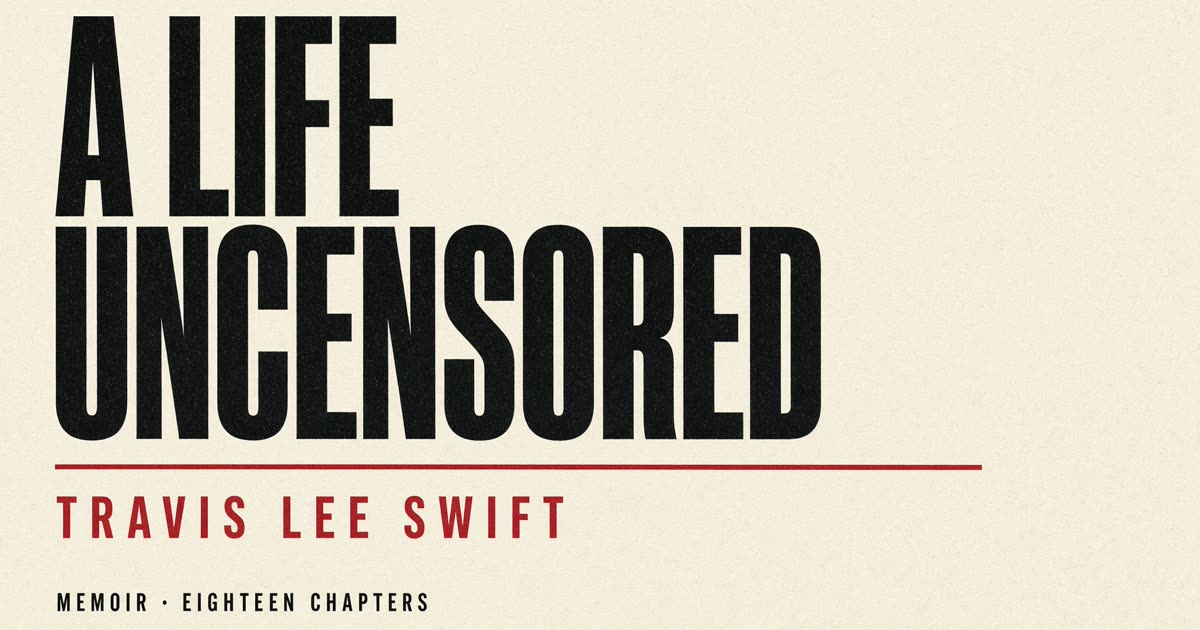
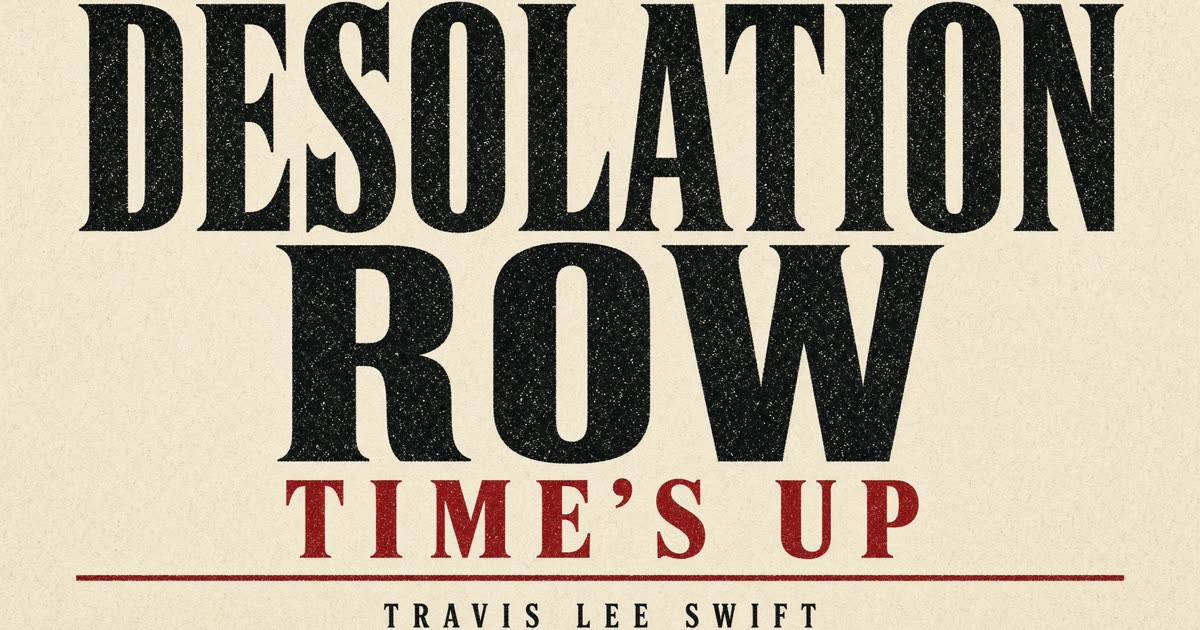
Restore paper name: Desolation Row — Time's Up

diff --git a/src/content/edition.ts b/src/content/edition.ts
@@ -1,11 +1,12 @@
 export const EDITION = {
-  name: "A Life Uncensored",
-  masthead: "A Life Uncensored",
-  subtitle: "The Record",
+  name: "Desolation Row",
+  masthead: "Desolation Row",
+  subtitle: "Time's Up",
+  bookTitle: "A Life Uncensored",
   genre: "Memoir",
   author: "Travis Lee Swift",
   xHandle: "TravisSwif21600",
-  tagline: "A Life Uncensored. Travis Lee Swift. The record is now in his own hands.",
+  tagline: "Desolation Row — Time's Up. Travis Lee Swift.",
   priceLabel: "£7.99",
   pricePence: 799,
   currency: "GBP",
@@ -20,14 +21,14 @@ export const EDITION = {
     note: "Travis Lee Swift pledges 10% of this edition's price to Macmillan Cancer Support. This is not an official Macmillan publication.",
   },
   blurb:
-    "A Life Uncensored by Travis Lee Swift. Memoir. Eighteen chapters, open to read and listen. No paywall until Travis says so.",
+    "Desolation Row — Time's Up by Travis Lee Swift. The book inside is A Life Uncensored. Eighteen chapters, open to read and listen until Travis says so.",
   backPage: [
-    "This is A Life Uncensored.",
-    "Five years clean. A body that still keeps the score. Two names, two countries, one record. The work is what remains.",
+    "This is Desolation Row — Time's Up.",
+    "The book inside is A Life Uncensored. Eighteen chapters. Five years clean. A body that still keeps the score. Two names, two countries, one record.",
     "I am still here. I am still building. The record is now in my own hands.",
   ],
   shareLine:
-    "A Life Uncensored by Travis Lee Swift. Memoir. The record is now in his own hands.",
+    "Desolation Row — Time's Up by Travis Lee Swift. The book is A Life Uncensored.",
 } as const;
 
 export const REVIEWS: { quote: string; by: string }[] = [

diff --git a/src/components/edition/volume.tsx b/src/components/edition/volume.tsx
@@ -26,6 +26,9 @@ export function Volume({ chapters }: { chapters: PiecePreview[] }) {
       <p className="mt-1 font-display text-2xl uppercase tracking-wide text-crimson">
         {EDITION.subtitle}
       </p>
+      <p className="mt-2 font-sans text-[11px] uppercase tracking-[0.22em] text-muted">
+        The book · {EDITION.bookTitle}
+      </p>
       <p className="mt-3 font-serif italic text-muted">{EDITION.author}</p>
       <p className="mt-2 font-sans text-xs text-faint">
         {words.toLocaleString()} words · {chapters.length} chapters in this drop · {EDITION.copyright}

diff --git a/README.md b/README.md
@@ -1,6 +1,6 @@
-# A Life Uncensored
+# Desolation Row — Time's Up
 
-Memoir by **Travis Lee Swift**. Eighteen chapters. Open to read and listen until Travis says otherwise. £7.99. 10% pledged to Macmillan Cancer Support (author's pledge, not an official Macmillan book).
+Paper by **Travis Lee Swift**. The book inside is *A Life Uncensored*. Eighteen chapters. Open to read and listen until Travis says otherwise. £7.99. 10% pledged to Macmillan Cancer Support (author's pledge, not an official Macmillan book).
 
 Live paper: Front / Book / Articles / Contact / Buy.
 
@@ -8,7 +8,7 @@ Live paper: Front / Book / Articles / Contact / Buy.
 Read [`GROK-REVIEW.md`](./GROK-REVIEW.md), then the files it lists. Advise. Do not dump a rewrite.
 
 ## Pictures
-See `public/edition/README.txt`. Cover is Travis's lockup. Chapter pictures when he adds them.
+See `public/edition/README.txt`.
 
 ## Stripe
 Payment Link is live (`stripePaymentLink` in `src/content/edition.ts`).

diff --git a/GROK-REVIEW.md b/GROK-REVIEW.md
@@ -1,9 +1,9 @@
-# A Life Uncensored
+# Desolation Row — Time's Up
 
 Travis Lee Swift asked SuperGrok to review this paper.
 
 ## What it is
-A PWA e-paper that publishes his memoir *A Life Uncensored* (£7.99). Genre: memoir. 10% of the price pledged by the author to Macmillan Cancer Support (not an official Macmillan publication).
+A PWA e-paper (*Desolation Row — Time's Up*, £7.99) that publishes Travis Lee Swift's memoir *A Life Uncensored*.
 
 ## What is live
 - Stripe Payment Link: `https://buy.stripe.com/dRm9AM2j2dg7eKBeuvfw401` (£7.99).
